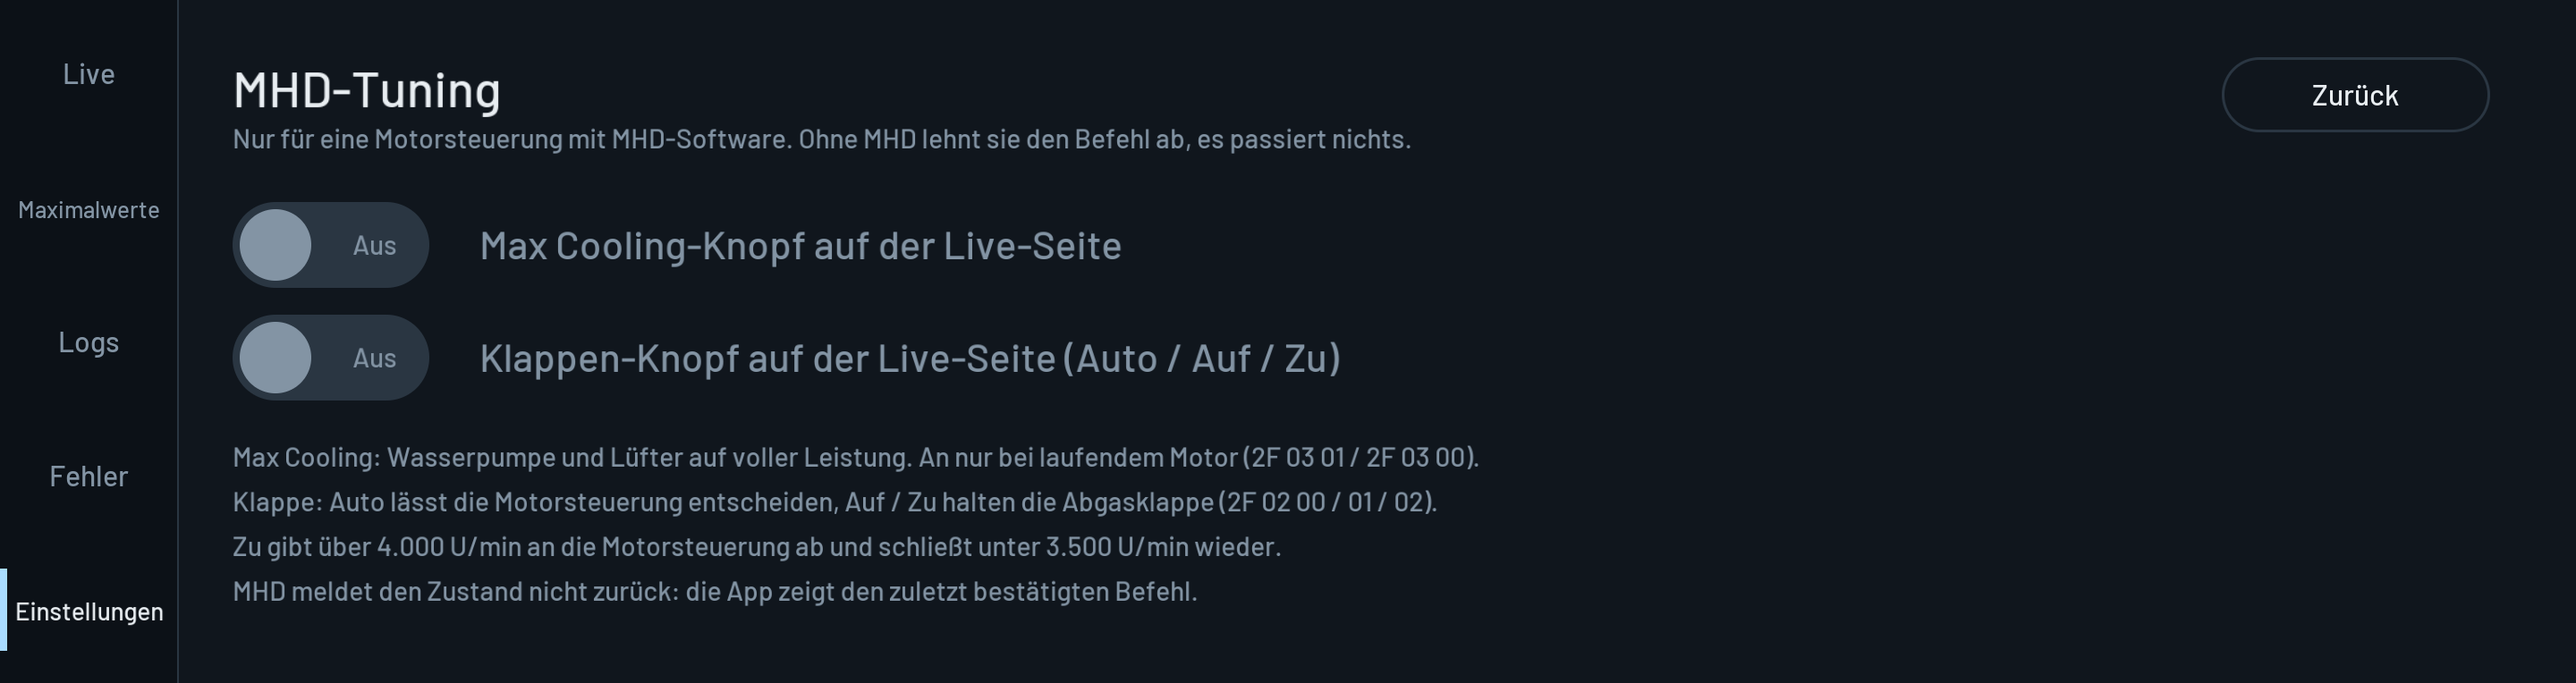
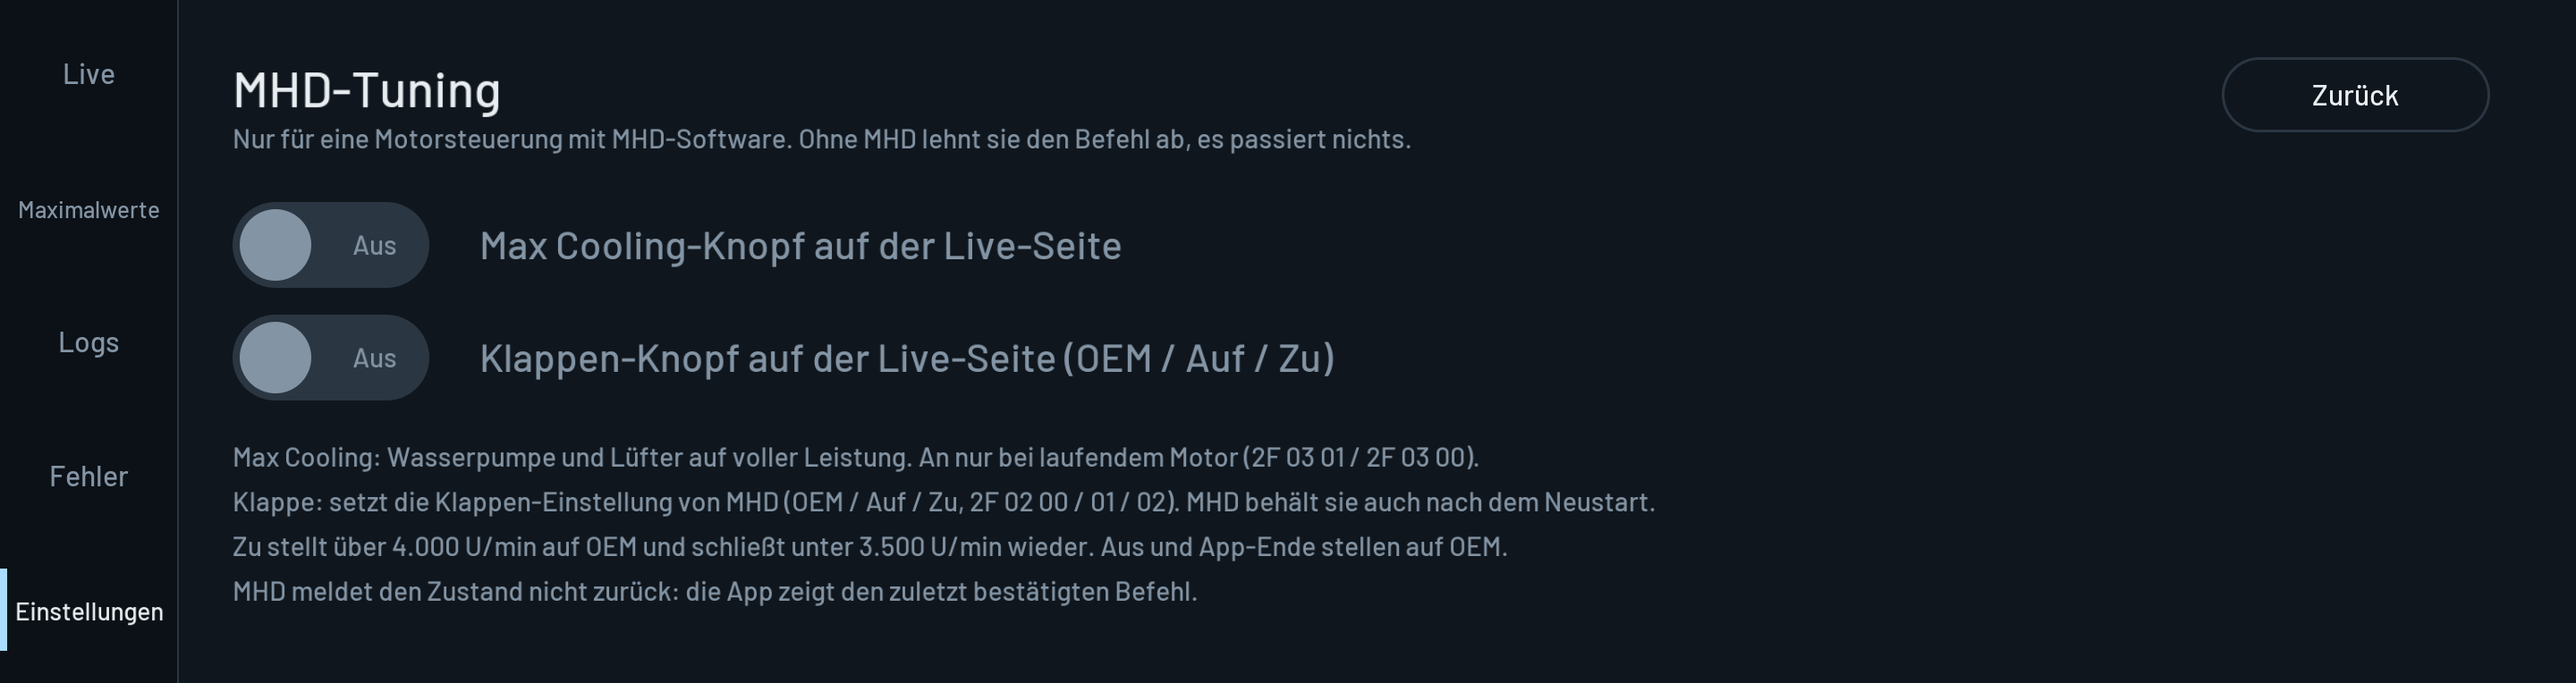
M Suite 0.32.1: Klappen-Knopf heißt OEM statt Auto
2F 02 00 ist MHDs Einstellung "OEM" (wie in der MHD-App), keine Rückgabe an
die Motorsteuerung. MHD behält sie über Neustarts: nach dem Test am 27.11.
(letzter Befehl 00) blieb Kevins MHD-Klappe auf OEM, obwohl die App seitdem
nichts mehr gesendet hat. Beschriftung, Erklärtext, README korrigiert.

Changed region(s): [[0.125, 0.7225, 0.6562, 0.7526], [0.0938, 0.7827, 0.5938, 0.8128], [0.4062, 0.4817, 0.5312, 0.5419]]

diff --git a/apps/km_motordaten/src/dash.js b/apps/km_motordaten/src/dash.js
@@ -76,7 +76,8 @@ function mainTargets(extra) {
  * exhaust flap (extra.flap: { state AUTO / OPEN / CLOSED, paused: Zu handed to the DME at high engine speed }).
  * One alone takes the whole width there, both share it with smaller words.
  */
-const FLAP_WORD = { AUTO: 'Auto', OPEN: 'Auf', CLOSED: 'Zu' };
+// AUTO is MHD's "OEM" (2F 02 00): MHD's own flap setting, which MHD keeps across restarts (seen 28.11.2026)
+const FLAP_WORD = { AUTO: 'OEM', OPEN: 'Auf', CLOSED: 'Zu' };
 function mhdTargets(extra) {
     const c = extra && extra.cooling;
     const f = extra && extra.flap;
@@ -86,7 +87,7 @@ function mhdTargets(extra) {
         out.push({ id: c.confirm ? 'cooling!' : 'cooling', label, danger: !!c.confirm, live: false, on: c.state === 'ON' });
     }
     if (f) {
-        const label = f.note ? f.note : f.busy ? 'Sende …' : `Klappe: ${FLAP_WORD[f.state] || '?'}${f.paused ? ' (Auto)' : ''}`;
+        const label = f.note ? f.note : f.busy ? 'Sende …' : `Klappe: ${FLAP_WORD[f.state] || '?'}${f.paused ? ' (OEM)' : ''}`;
         out.push({ id: 'flap', label, live: false, on: f.state !== 'AUTO' });
     }
     const gap = 16;
@@ -783,12 +784,12 @@ function mhdPage(rec, cfg, ui) {
     rec.text('Max Cooling-Knopf auf der Live-Seite', MHD_SWITCH.x + MHD_SWITCH.w + 56, MHD_SWITCH.y + 64, 44, on ? C.text : C.dim, { font: 'label' });
     const flap = !!cfg.mhdFlapOn;
     toggleSwitch(rec, MHD_FLAP_SWITCH, flap, ui);
-    rec.text('Klappen-Knopf auf der Live-Seite (Auto / Auf / Zu)', MHD_FLAP_SWITCH.x + MHD_FLAP_SWITCH.w + 56, MHD_FLAP_SWITCH.y + 64, 44,
+    rec.text('Klappen-Knopf auf der Live-Seite (OEM / Auf / Zu)', MHD_FLAP_SWITCH.x + MHD_FLAP_SWITCH.w + 56, MHD_FLAP_SWITCH.y + 64, 44,
         flap ? C.text : C.dim, { font: 'label' });
     const lines = [
         'Max Cooling: Wasserpumpe und Lüfter auf voller Leistung. An nur bei laufendem Motor (2F 03 01 / 2F 03 00).',
-        'Klappe: Auto lässt die Motorsteuerung entscheiden, Auf / Zu halten die Abgasklappe (2F 02 00 / 01 / 02).',
-        'Zu gibt über 4.000 U/min an die Motorsteuerung ab und schließt unter 3.500 U/min wieder.',
+        'Klappe: setzt die Klappen-Einstellung von MHD (OEM / Auf / Zu, 2F 02 00 / 01 / 02). MHD behält sie auch nach dem Neustart.',
+        'Zu stellt über 4.000 U/min auf OEM und schließt unter 3.500 U/min wieder. Aus und App-Ende stellen auf OEM.',
         'MHD meldet den Zustand nicht zurück: die App zeigt den zuletzt bestätigten Befehl.'
     ];
     lines.forEach((l, i) => rec.text(l, X0, MHD_FLAP_SWITCH.y + 170 + i * 50, 30, C.dim, { font: 'label' }));

diff --git a/apps/km_motordaten/tools/test_drawn.js b/apps/km_motordaten/tools/test_drawn.js
@@ -224,8 +224,8 @@ const center = (t) => [t.x + t.w / 2, t.y + t.h / 2];
     // the flap's button only while switched on (extra.flap), its state in its words; with Max Cooling both share the place
     assert.strictEqual(Limits.defaults().mhdFlapOn, 0, 'the flap starts off');
     assert.ok(!dash.targets('main', {}).some((t) => t.id === 'flap'), 'no flap button while off');
-    assert.strictEqual(dash.targets('main', { flap: { state: 'AUTO' } }).pop().label, 'Klappe: Auto');
-    assert.strictEqual(dash.targets('main', { flap: { state: 'CLOSED', paused: true } }).pop().label, 'Klappe: Zu (Auto)');
+    assert.strictEqual(dash.targets('main', { flap: { state: 'AUTO' } }).pop().label, 'Klappe: OEM');
+    assert.strictEqual(dash.targets('main', { flap: { state: 'CLOSED', paused: true } }).pop().label, 'Klappe: Zu (OEM)');
     assert.ok(dash.targets('main', { flap: { state: 'OPEN' } }).pop().on);
     const both = dash.targets('main', { cooling: { state: null }, flap: { state: 'AUTO' } }).slice(-2);
     assert.deepStrictEqual(both.map((t) => t.id), ['cooling', 'flap']);

diff --git a/README.md b/README.md
@@ -54,9 +54,9 @@ Motordaten liest über das Diagnose-Gateway der Headunit, als Tester 0xF4:
 `22 <ID>` (ReadDataByIdentifier, bis zu 8 Kennungen), OBD-II `01` / `09` mit einer PID und den
 Fehlerspeicher `19 02` (auch an alle Steuergeräte gleichzeitig); Einzelanfragen nur an DME und Getriebe.
 Änderungen im Auto gibt es drei: MHD Max Cooling (`2F 03 01` / `2F 03 00` an die DME, nur wenn in den Einstellungen
-eingeschaltet, an nur bei laufendem Motor), die MHD-Abgasklappe (`2F 02 00` Auto / `01` Auf / `02` Zu an die DME, nur wenn
-in den Einstellungen eingeschaltet, anfangs aus; „Zu“ gibt über 4.000 U/min an die DME ab und schließt unter 3.500 U/min
-wieder) und Fehler löschen (`14 FF FF FF`): nur auf Wunsch mit Rückfrage, nur bei Motor aus
+eingeschaltet, an nur bei laufendem Motor), die MHD-Abgasklappe (`2F 02 00` OEM / `01` Auf / `02` Zu an die DME, nur wenn
+in den Einstellungen eingeschaltet, anfangs aus; „Zu“ stellt über 4.000 U/min auf OEM und schließt unter 3.500 U/min
+wieder. Das ist MHDs eigene Klappen-Einstellung, wie in der MHD-App: MHD behält sie auch nach einem Neustart) und Fehler löschen (`14 FF FF FF`): nur auf Wunsch mit Rückfrage, nur bei Motor aus
 und Zündung an, je Steuergerät einzeln, nie die Headunit.
 Alles andere lehnt `shared/tasu.js` ab, bevor es das Gateway erreicht: keine
 Sitzungswechsel, kein Löschen, kein Schreiben, keine Routinen. Eine Anfrage
